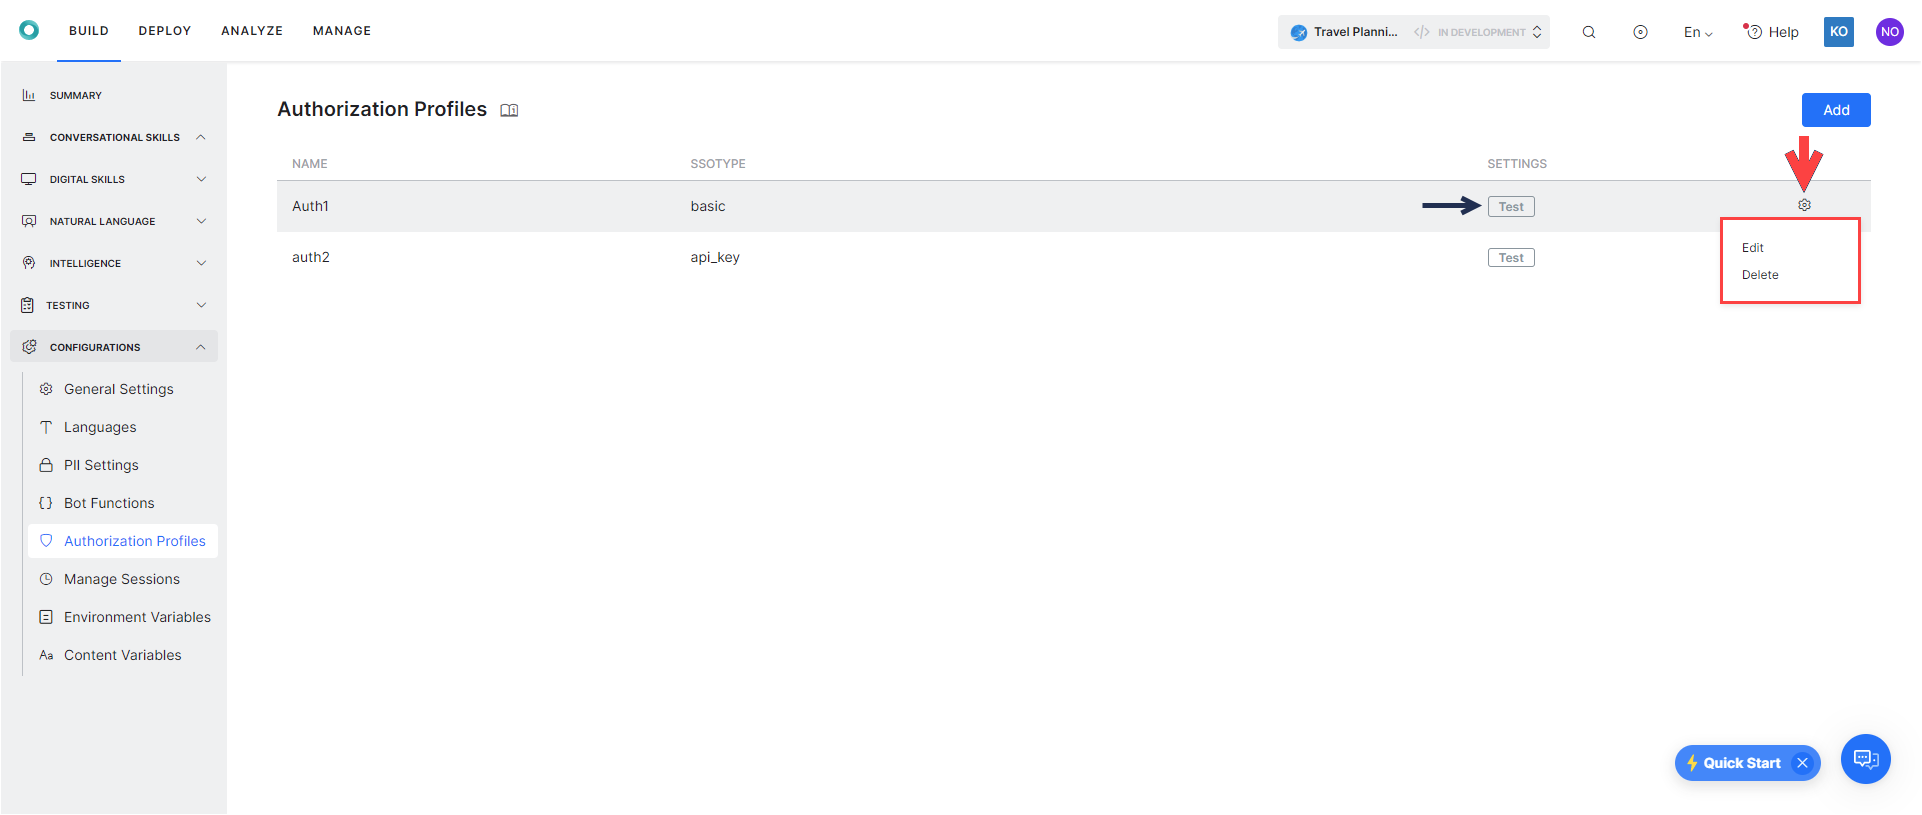
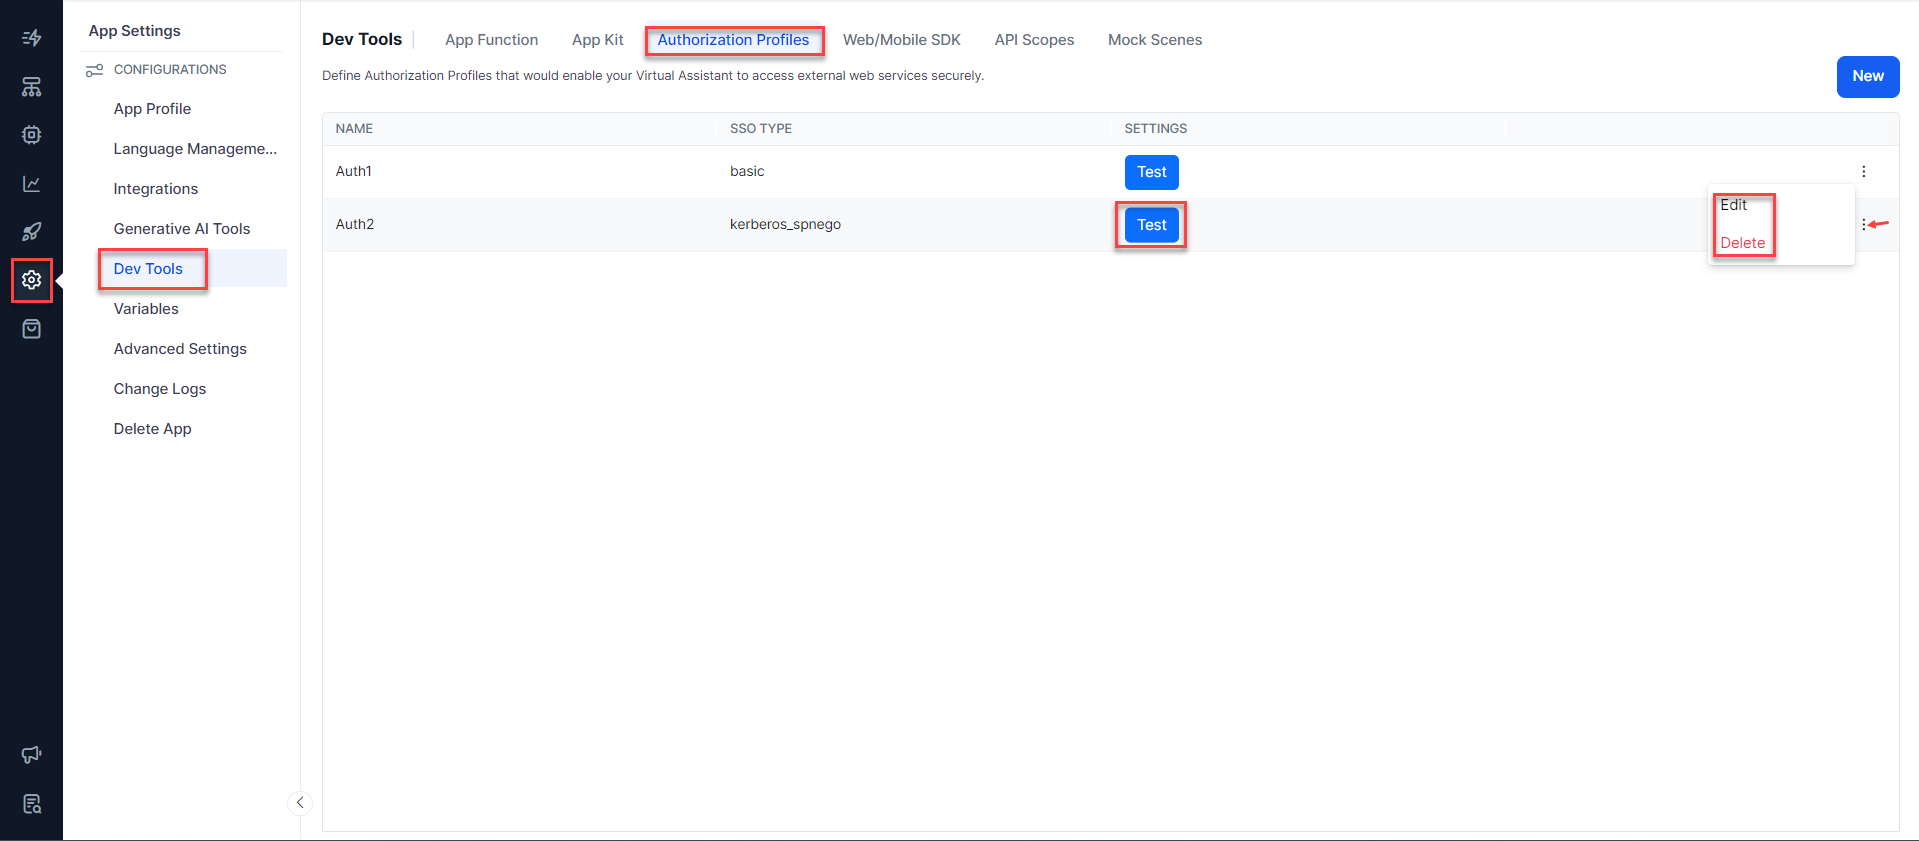
conversation sessions

diff --git a/docs/xo/manage-assistant/conversation-sessions.md b/docs/xo/manage-assistant/conversation-sessions.md
@@ -1,11 +1,4 @@
-
 # Conversation Sessions
-
-	
-
-		
-
-			
 
 Conversation sessions are defined as uninterrupted interactions between the bot and the user. These sessions are used in multiple analytics dashboards in the Bot Builder as well as Bot Admin Console platforms.
 
@@ -13,110 +6,62 @@ Kore.ai virtual assistant platform allows you to customize how these Conversatio
 
 !!! note
 
-    Conversation Sessions are different from Billing Sessions,[ refer here](https://developer.kore.ai/docs/bots/bot-admin/billing/) for more on Billing Sessions.
-
-		
-
-	
-
-	
-
-		
-
-			
+    Conversation Sessions are different from Billing Sessions, [refer here](../../administration/billing){:target="_blank"} for more on Billing Sessions.
 
 
 ## Overview
 
-A Conversation Session is defined as an uninterrupted volley between the end user and the bot.
+A Conversation Session is defined as an uninterrupted volley between the end-user and the bot.
 
 
-
-* Before the release of v7.2 of the platform – a new session was created after the _inactivity duration (set as 15 minutes)_ had elapsed since the end-user's last interaction.
+* Before the release of v7.2 of the platform – a new session was created after the _inactivity duration (set as 15 mins)_ has elapsed since the end-users’ last interaction.
 * Post v7.2 release – after the _inactivity duration (set as 15 mins)_ has elapsed
     * if the end-user comes back and continues with the same intent, then the current session continues;
     * if the end-user comes back with a new intent or with an invalid input for the existing intent, a new session is created.
-* Post v8.0 release, the platform gives you an option to:
-    * Proactively close the sessions after inactivity – see[ Manage Sessions](https://developer.kore.ai/docs/bots/bot-settings/bot-sessions/#Manage_Sessions) to know more.
+* Post v8.0 release, platform gives you an option to:
+    * Proactively close the sessions after inactivity – see [Manage Sessions](#manage-sessions) to know more.
     * Not proactively close the sessions after inactivity – retain the v7.2 behavior described above;
 
 Conversation Sessions are created for all interactions with the virtual assistant. These include:
 
-
-
-* All conversations that include one or more messages from the user are marked as **interactive sessions**. These include all end-user interactions across all channels and events including providing authorization details.
-* All Virtual assistant-initiated conversion sessions like onConnect event messages are recorded as **non-interactive**. These sessions will be updated as Interactive sessions as soon as a user message is received. Non-interactive sessions are not considered for calculating the billing sessions.
+* All conversations that include one or more messages from the user marked as **interactive sessions**. These include all end-user interactions across all channels and events including providing authorization details.
+* All Virtual assistant initiated conversion sessions like onConnect event messages are recorded as **non-interactive sessions**. These sessions will be updated as Interactive sessions as soon as a user message is received. Non-interactive sessions are not considered for calculating the billing sessions.
 * **Developer interactions** are also included as conversation sessions. A flag differentiates the user sessions from developer sessions and billing sessions are not created for these developer sessions.
 
 !!! note
 
-     The inclusion of non-interactive and developer interactions in conversation sessions was implemented starting from ver8.0.
-
-		
-
-	
-
-	
-
-		
-
-			
+     Inclusion of non-interactive and developer interactions in conversation sessions was implemented starting from ver8.0.
 
 
 ## Manage Sessions
 
 This feature is only available post v8.0 of the platform release.
 
-You can define the Conversation Session behavior using the **Manage Sessions** option under **Configurations** from the **Build** tab.
+You can define the Conversation Session behaviors in the **Manage Sessions** tab within **App Settings > Advanced Settings** tab.
 
-
-
-![alt_text](images/conversationsessions1.png "image_tooltip")
-
+<img src="../images/bot-sessions-img1.png" alt="App Settings - Advanced Settings - Manage Sessions" title="App Settings - Advanced Settings - Manage Sessions" style="border: 1px solid gray;zoom:50%;"/>
 
 The following details explain the options available on the page, to define the conversation sessions.
-
-
 
 * **Do not proactively close the sessions after inactivity** – Select this option to close the session only when the user returns after 15 minutes of inactivity and provides a new intent. This was the default behavior before the release of ver8.0 of the platform. <span style="text-decoration:underline;">This option will be deprecated in future releases</span>.
 * **Proactively close the sessions after inactivity** – Select this option to close the session after a defined duration of inactivity. You can set the following parameters:
     * **Inactivity Duration** – this is set to 15 minutes by default. The session closes after the time duration set here.
-    
-    !!! note
 
-        The minimum value that can be set here is **5 min ** and the maximum value is **20160** **min** (14 days). These values can be configured at the application level through Koreconfig.
+        !!! note
 
-* **Session Closure Behavior** – You can choose to close the session without informing the user or inform the user about the session closure by sending out a message. This message can be customized using the **Manage Response** link. You can click **Add Response** if you want to add a new response. 
+            The minimum value that can be set here is **5 min** and the maximum value is **20160 min** (14 days). These values can be configured at the application level through Koreconfig.
 
+* **Session Closure Behavior** – You can choose to close the session without informing the user or inform the user about the session closure by sending out a message. This message can be customized using the **Manage response** link. You can click **Add Response**, if you want to add a new response.  
+<img src="../images/bot-sessions-img2.png" alt="Customize message using Manage Response" title="Customize message using Manage Response" style="border: 1px solid gray;zoom:50%;"/>
 
+* **Clear Auth Profile** – You can enable the **Clear Auth Profiles** option to clear all authorization tokens and session variables associated with a particular session. Once you enable this setting, you are required to provide the authorization profile details again to re-authorize the session.  
+<img src="../images/bot-sessions-img3.png" alt="Clear Auth Profiles - clear all authorization tokens and session variables" title="Clear Auth Profiles - clear all authorization tokens and session variables" style="border: 1px solid gray;zoom:50%;"/>
 
-    ![alt_text](images/conversationsessions2.png "image_tooltip")
-
-* **Clear Auth Profile** – You can enable the **Clear Auth Profiles** option to clear all authorization tokens and session variables associated with a particular session. Once you enable this setting, you are required to provide the authorization profile details again to re-authorize the session. 
-
-
-
-![alt_text](images/conversationsessions3.png "image_tooltip")
-
-* **Run Custom Script** – You can use the custom script to invoke koreUtil.ClearAuthProfiles function to clear the authorization profile and associated session variables for that particular profile. For example, if you have enabled multiple authorization profiles for a session, you can use the `koreUtil.ClearAuthProfiles` to disable a particular authorization profile that is not needed for this session using this custom script: 
- `koreUtil.ClearAuthProfiles ( [Auth_Profile_Name] )` 
-You can also clear all authorization profiles using this script: 
-`koreUtil.ClearAllAuthProfiles ( )` For more information, see[ kore.UtilLibraries](https://developer.kore.ai/docs/bots/advanced-topics/koreutil-libraries/)<span style="text-decoration:underline;"> </span>article.
-
-
-
-    ![alt_text](images/conversationsessions4.png "image_tooltip")
-
-
-		
-
-	
-
-	
-
-		
-
-			
+* **Run Custom Script** – You can use the custom script to invoke koreUtil.ClearAuthProfiles function to clear the authorization profile and associated session variables for that particular profile.For example, if you have enable multiple authorization profiles for a session, you can use the `koreUtil.ClearAuthProfiles` to disable a particular authorization profile that is not needed for this session using this custom script:  
+`koreUtil.ClearAuthProfiles ( [Auth_Profile_Name] )
+`You can also clear all authorization profile using this script:
+`koreUtil.ClearAllAuthProfiles ( )` For more information, see [kore.UtilLibraries ](../../../apis/koreutil-libraries){:target="_blank"}article.  
+<img src="../images/bot-sessions-img4.png" alt="Run Custom Script" title="Run Custom Script" style="border: 1px solid gray;zoom:50%;"/>
 
 
 ## Implementation
@@ -125,49 +70,40 @@ You can also clear all authorization profiles using this script:
 
 Conversation Sessions are created for all interactions:
 
-
-
 * All **end-user interactions** across all channels and events – Conversation sessions are created for On_connect – Run a script, Run a Message, Trigger a Dialog scenario. There are two categories of these conversation sessions:
     * **Interactive sessions** are conversations that include one or more messages from the user.
-    * **Non-interactive sessions** are conversations with no messages from the user. All bot-initiated conversion sessions start as ‘Non-interactive’. These sessions are updated as Interactive sessions as soon as a user message is received. The non-interactive sessions are not considered for calculating the billing sessions.
+    * **Non-interactive sessions** are conversations with no messages from the user. All bot initiated conversion sessions start as ‘Non-interactive’. These sessions are updated as Interactive sessions as soon as a user message is received. The non-interactive sessions are not considered for calculating the billing sessions.
+
 * **Developer interactions** will also be considered for creating conversation sessions but these are marked as different from the user sessions and are not considered for Billing Sessions.
 
 **When does a Conversation Session close?**
 
+* The platform proactively closes inactive sessions after the specified time of inactivity set in the [Manage Sessions ](#manage-sessions)option.
+* When the chat window is refreshed ie _“refresh: true”_ is detected.
 
+!!! Note
 
-* The platform proactively closes inactive sessions after the specified time of inactivity set in the[ Manage Sessions](https://developer.kore.ai/docs/bots/bot-settings/bot-sessions/#Manage_Sessions)<span style="text-decoration:underline;"></span> option.
-* When the following utterances are detected – _“Discard”_
-* When the chat window is refreshed, "_refresh: true” _is detected.
+    **Discard** and **Discard all** commands only stop the ongoing chat and do not end the Conversation Session.
 
-		
+    For **discard all**:
 
-	
+    * The Dialog context, Current and Historic Tags are cleared;
+    * The Sentiment Tones are reset
 
-	
+    For **discard**:
 
-		
+    * The current Dialog context will be cleared;
+    * The Current Tags will be replaced with the last updated ‘tags’ in the Historic Tags, and the Historic Tags would be cleared
 
-			
-
+    
 **What happens when a Conversation Session closes?**
-
-
 
 * Post-session closure, the following information or variables will be cleared:
     * Conversation session;
     * Bot User Session (developer-defined variables without custom TTL)
     * Dialog Context (Topic File and Conversation Details)
     * If configured, before closing the conversation session, the platform will proactively send a session closure message to the users on supported channels.
+
 * For “_refresh: true_”:
     * Complete session information is cleared;
     * A new conversation session is created.
-* For “_discard all_”
-    * The Dialog context, Current and Historic Tags are cleared;
-    * The Sentiment Tones are reset;
-    * The same Conversation Session will be continued
-* For “_discard_”
-    * The current Dialog context will be cleared;
-    * The Current Tags will be replaced with the last updated ‘tags’ in the Historic Tags, and the Historic Tags will be cleared;
-
-		

diff --git a/docs/xo/manage-assistant/bot-authorization-overview.md b/docs/xo/manage-assistant/bot-authorization-overview.md
@@ -1,10 +1,4 @@
-# Bot Authorization Overview
-
-	
-
-		
-
-			
+# VA Authorization Overview
 
 Kore.ai XO Platform’s Enterprise Integration Framework supports multiple authentication models that can be configured at a task level for each assistant, to use both authenticated and unauthenticated tasks in the same configuration.
 
@@ -18,60 +12,51 @@ The Platform lets you quickly enable one authentication profile across all VAs a
 
 ### Basic Auth
 
-A standard protocol to collect username and password information. Kore.ai uses SSL encryption and basic authentication to help secure end-user information. For more information, see[ Setting Up Authorization using Basic Auth](https://developer.kore.ai/docs/bots/advanced-topics/authorization/setting-up-authorization-using-basic-auth/).
+A standard protocol to collect username and password information. Kore.ai uses SSL encryption and basic authentication to help secure end-user information. For more information, see[ Setting Up Authorization using Basic Auth](../../app-settings/dev-tools/bot-authorization/setting-up-authorization-using-basic-auth/setting-up-authorization-using-basic-auth/).
 
 
 ### OAuth v2 password grant type
 
-Define a custom authorization type for non-standard web service authorization types. For more information, see[ Setting Up Authorization using OAuth v2 password grant](https://developer.kore.ai/docs/bots/advanced-topics/authorization/setting-up-authorization-using-oauth-v2-password-grant/).
+Define a custom authorization type for non-standard web service authorization types. For more information, see[ Setting Up Authorization using OAuth v2 password grant](../../app-settings/dev-tools/bot-authorization/setting-up-authorization-using-basic-auth/setting-up-authorization-using-oauth-v2-password-grant/).
 
 
 ### OAuth v2 client credentials
 
-This option allows you to configure authorization using client credentials.[ Learn more.](https://developer.kore.ai/docs/bots/advanced-topics/authorization/bot-oauthv2-clientcredentials/)
+This option allows you to configure authorization using client credentials.[ Learn more.](../../app-settings/dev-tools/bot-authorization/setting-up-authorization-using-basic-auth/bot-oauthv2-clientcredentials/){:target="_blank"}
 
 
 ### OAuth v2
 
-The newest version of the OAuth protocol focuses on specific authorization flows for web applications and web services. For more information, see[ Setting Up Authorization using OAuth v2](https://developer.kore.ai/docs/bots/advanced-topics/authorization/setting-up-authorization-using-oauth-v2/).
+The newest version of the OAuth protocol focuses on specific authorization flows for web applications and web services. For more information, see[ Setting Up Authorization using OAuth v2](../../app-settings/dev-tools/bot-authorization/setting-up-authorization-using-basic-auth/setting-up-authorization-using-oauth-v2/){:target="_blank"}.
 
 
 ### OAuth v1
 
-Enables web applications or web services to access protected resources using an API without end-users having to disclose their login credentials to Kore.ai. For more information, see[ Setting Up Authorization using OAuth v1](https://developer.kore.ai/docs/bots/advanced-topics/authorization/setting-up-authorization-using-oauth-v1/).
+Enables web applications or web services to access protected resources using an API without end-users having to disclose their login credentials to Kore.ai. For more information, see[ Setting Up Authorization using OAuth v1](../../app-settings/dev-tools/bot-authorization/setting-up-authorization-using-basic-auth/setting-up-authorization-using-oauth-v1/){:target="_blank"}.
 
 
 ### API Key
 
-Identification and authorization tokens generated or provided by a web application or web service are used to identify the incoming application request, and in some cases, also provide authentication for secure access. For more information, see[ Setting Up Authorization using an API Key](https://developer.kore.ai/docs/bots/advanced-topics/authorization/setting-up-authorization-using-an-api-key/).
+Identification and authorization tokens generated or provided by a web application or web service are used to identify the incoming application request, and in some cases, also provide authentication for secure access. For more information, see[ Setting Up Authorization using an API Key](../../app-settings/dev-tools/bot-authorization/setting-up-authorization-using-basic-auth/setting-up-authorization-using-an-api-key/){:target="_blank"}.
 
 
 ### Kerberos SPNEGO
 
-Enables enterprises to use Kerberos SPNEGO authentication flow to connect securely with their internal applications using this security protocol. For more information, see the [Setting Up Kerberos SPNEGO authorization profile](https://developer.kore.ai/docs/bots/advanced-topics/setting-up-the-kerberos-spnego-authorization-profile/) article.
+Enables enterprises to use Kerberos SPNEGO authentication flow to connect securely with their internal applications using this security protocol. For more information, see the [Setting Up Kerberos SPNEGO authorization profile](../../app-settings/dev-tools/bot-authorization/setting-up-authorization-using-basic-auth/setting-up-the-kerberos-spnego-authorization-profile/){:target="_blank"} article.
 
 
 ## Authorization Options
 
-Each authorization you add to your assistant comes with several options which can be accessed by selecting an authorization profile under **Build > Configurations > Authorization Profiles.**
+Each authorization you add to your assistant comes with several options which can be accessed by selecting an authorization profile under **Automation AI > Settings > Dev Tools > Authorization Profiles.**
 
 These options are:
 
-
-
 * **Test** – Click the Test button corresponding to an authorization to use this feature. This option lets you test the authorization profile to ensure that the assistant establishes a connection to the app you linked it with via the authorization. Test steps differ, depending on the authorization model. Please see the documentation relevant to each model for details related to testing. 
-* **Edit** – Click the **gear** icon corresponding to an authorization, then select **Edit **to reach the editing dialog. Here is where you can edit an existing authorization and change any of the details related to it. 
-* **Delete** – Click the **gear** icon corresponding to an authorization, then select **Delete**. Confirm your choice if you are sure that you want to delete the authorization profile.
- **WARNING**: Deleted authorization profiles cannot be restored. Please proceed with caution.
+* **Edit** – Click the **3-dot menu** icon corresponding to an authorization, then select **Edit** to reach the editing dialog. Here is where you can edit an existing authorization and change any of the details related to it. 
+* **Delete** – Click the **3-dot menu** icon corresponding to an authorization, then select **Delete**. Confirm your choice if you are sure that you want to delete the authorization profile.
 
+    !!! WARNING
+    
+        Deleted authorization profiles cannot be restored. Please proceed with caution.
 
-
-
-
-
-![alt_text](images/auth-options.png "image_tooltip")
-
-
-		
-
-	
+<img src="../images/auth-options.png" alt="Authorization profiles - Options" title="Authorization profiles - Options" style="border:1px solid gray; zoom:60%;">
